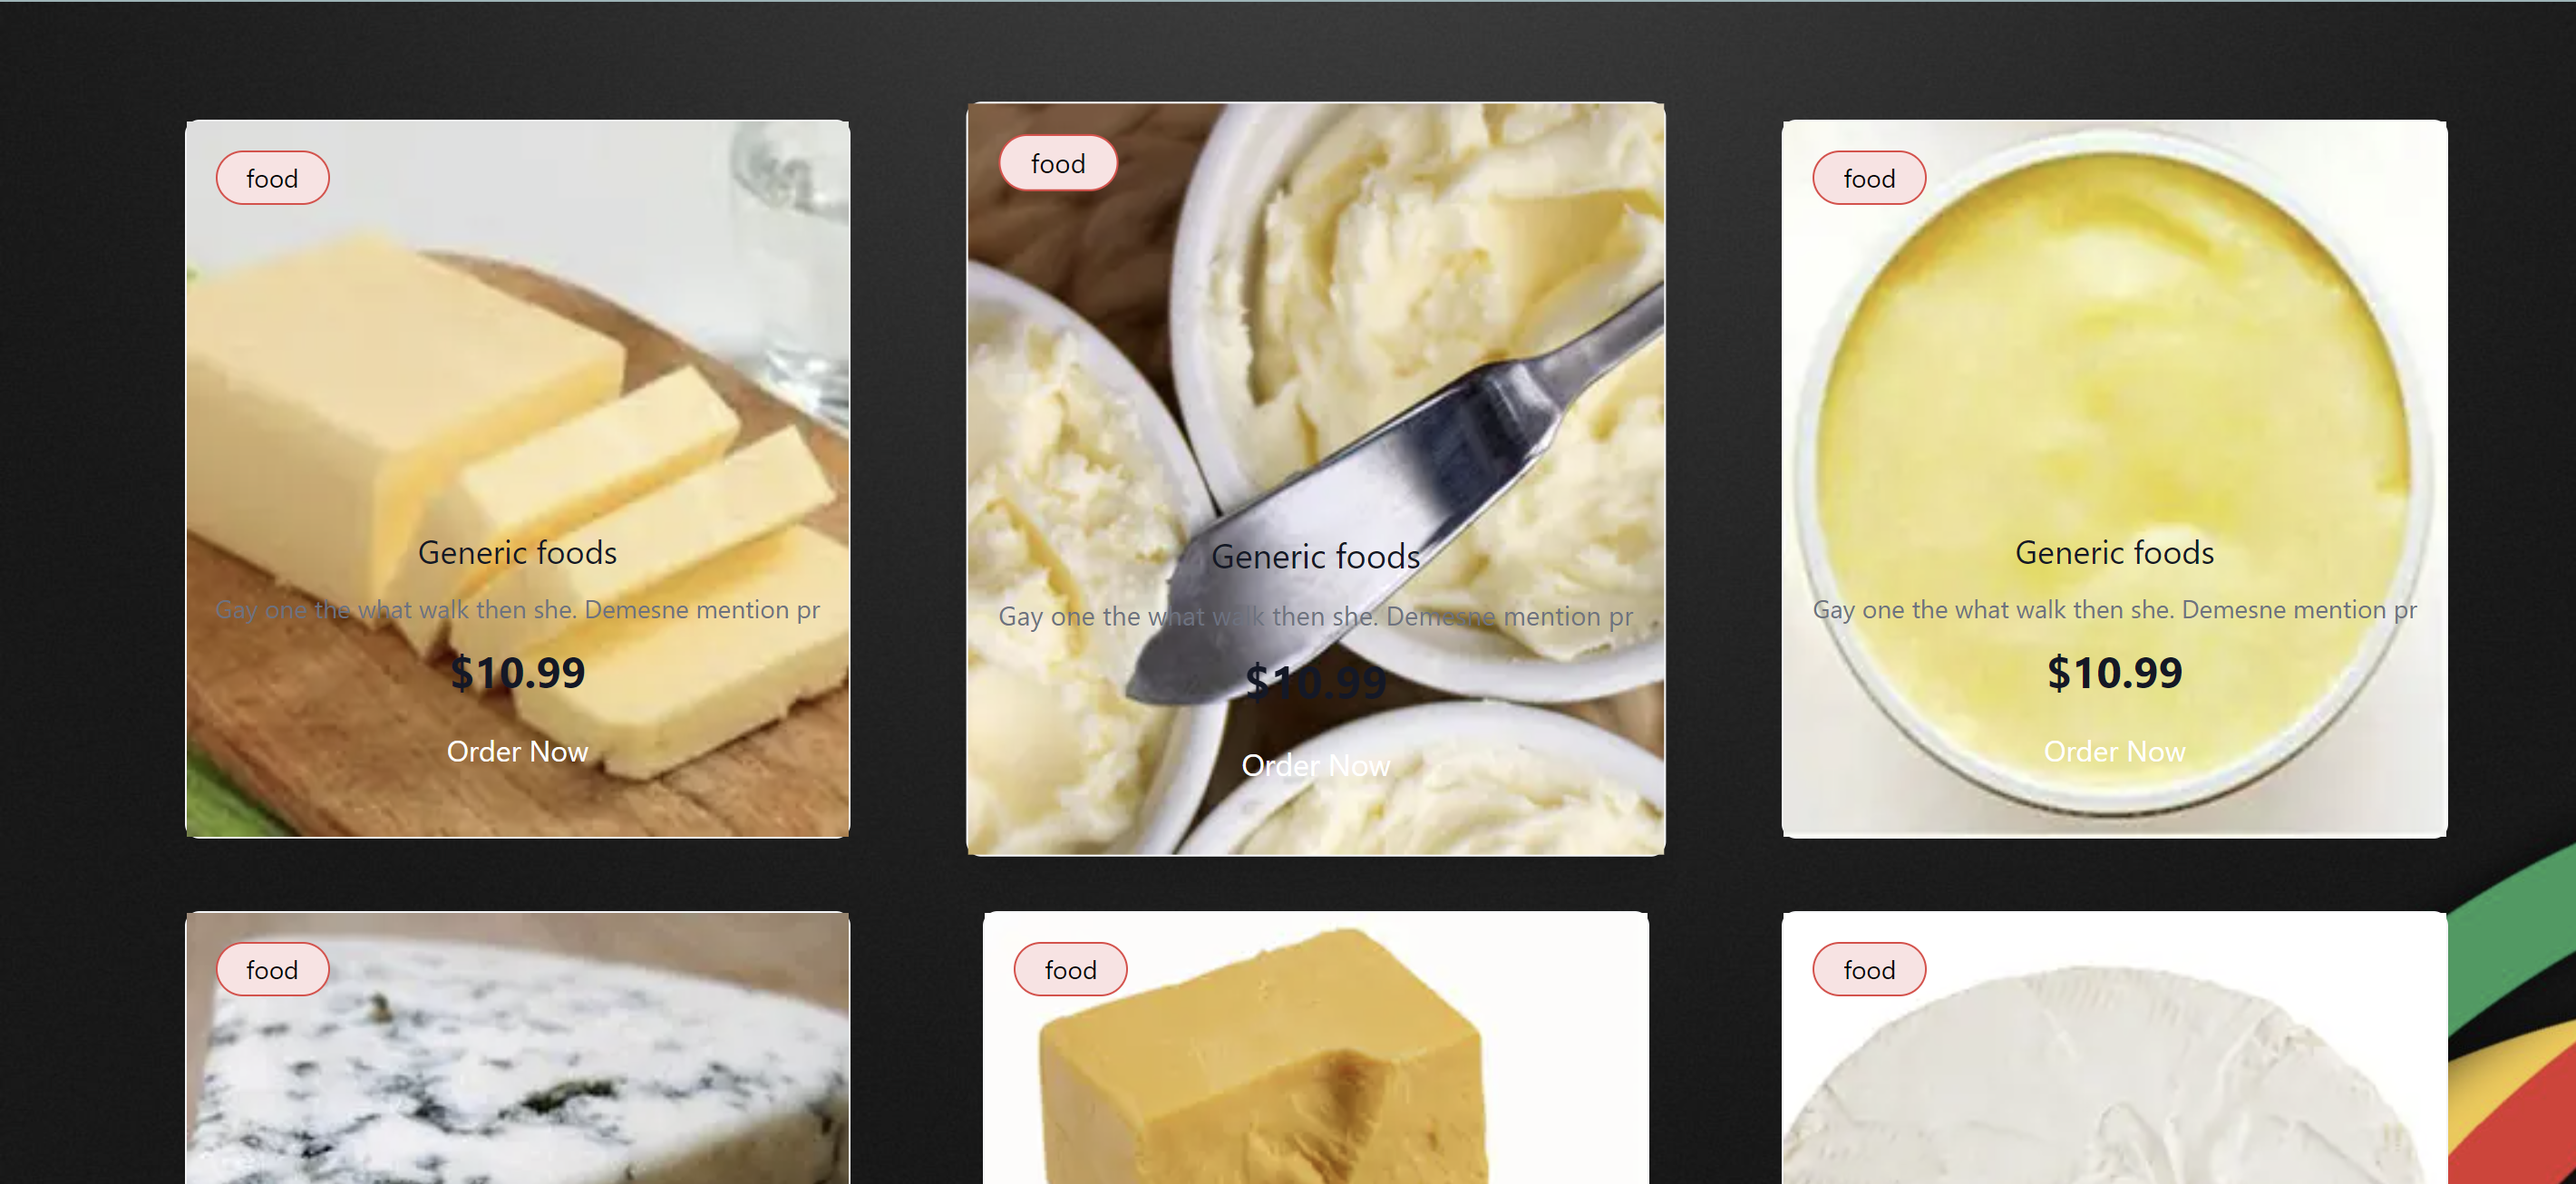
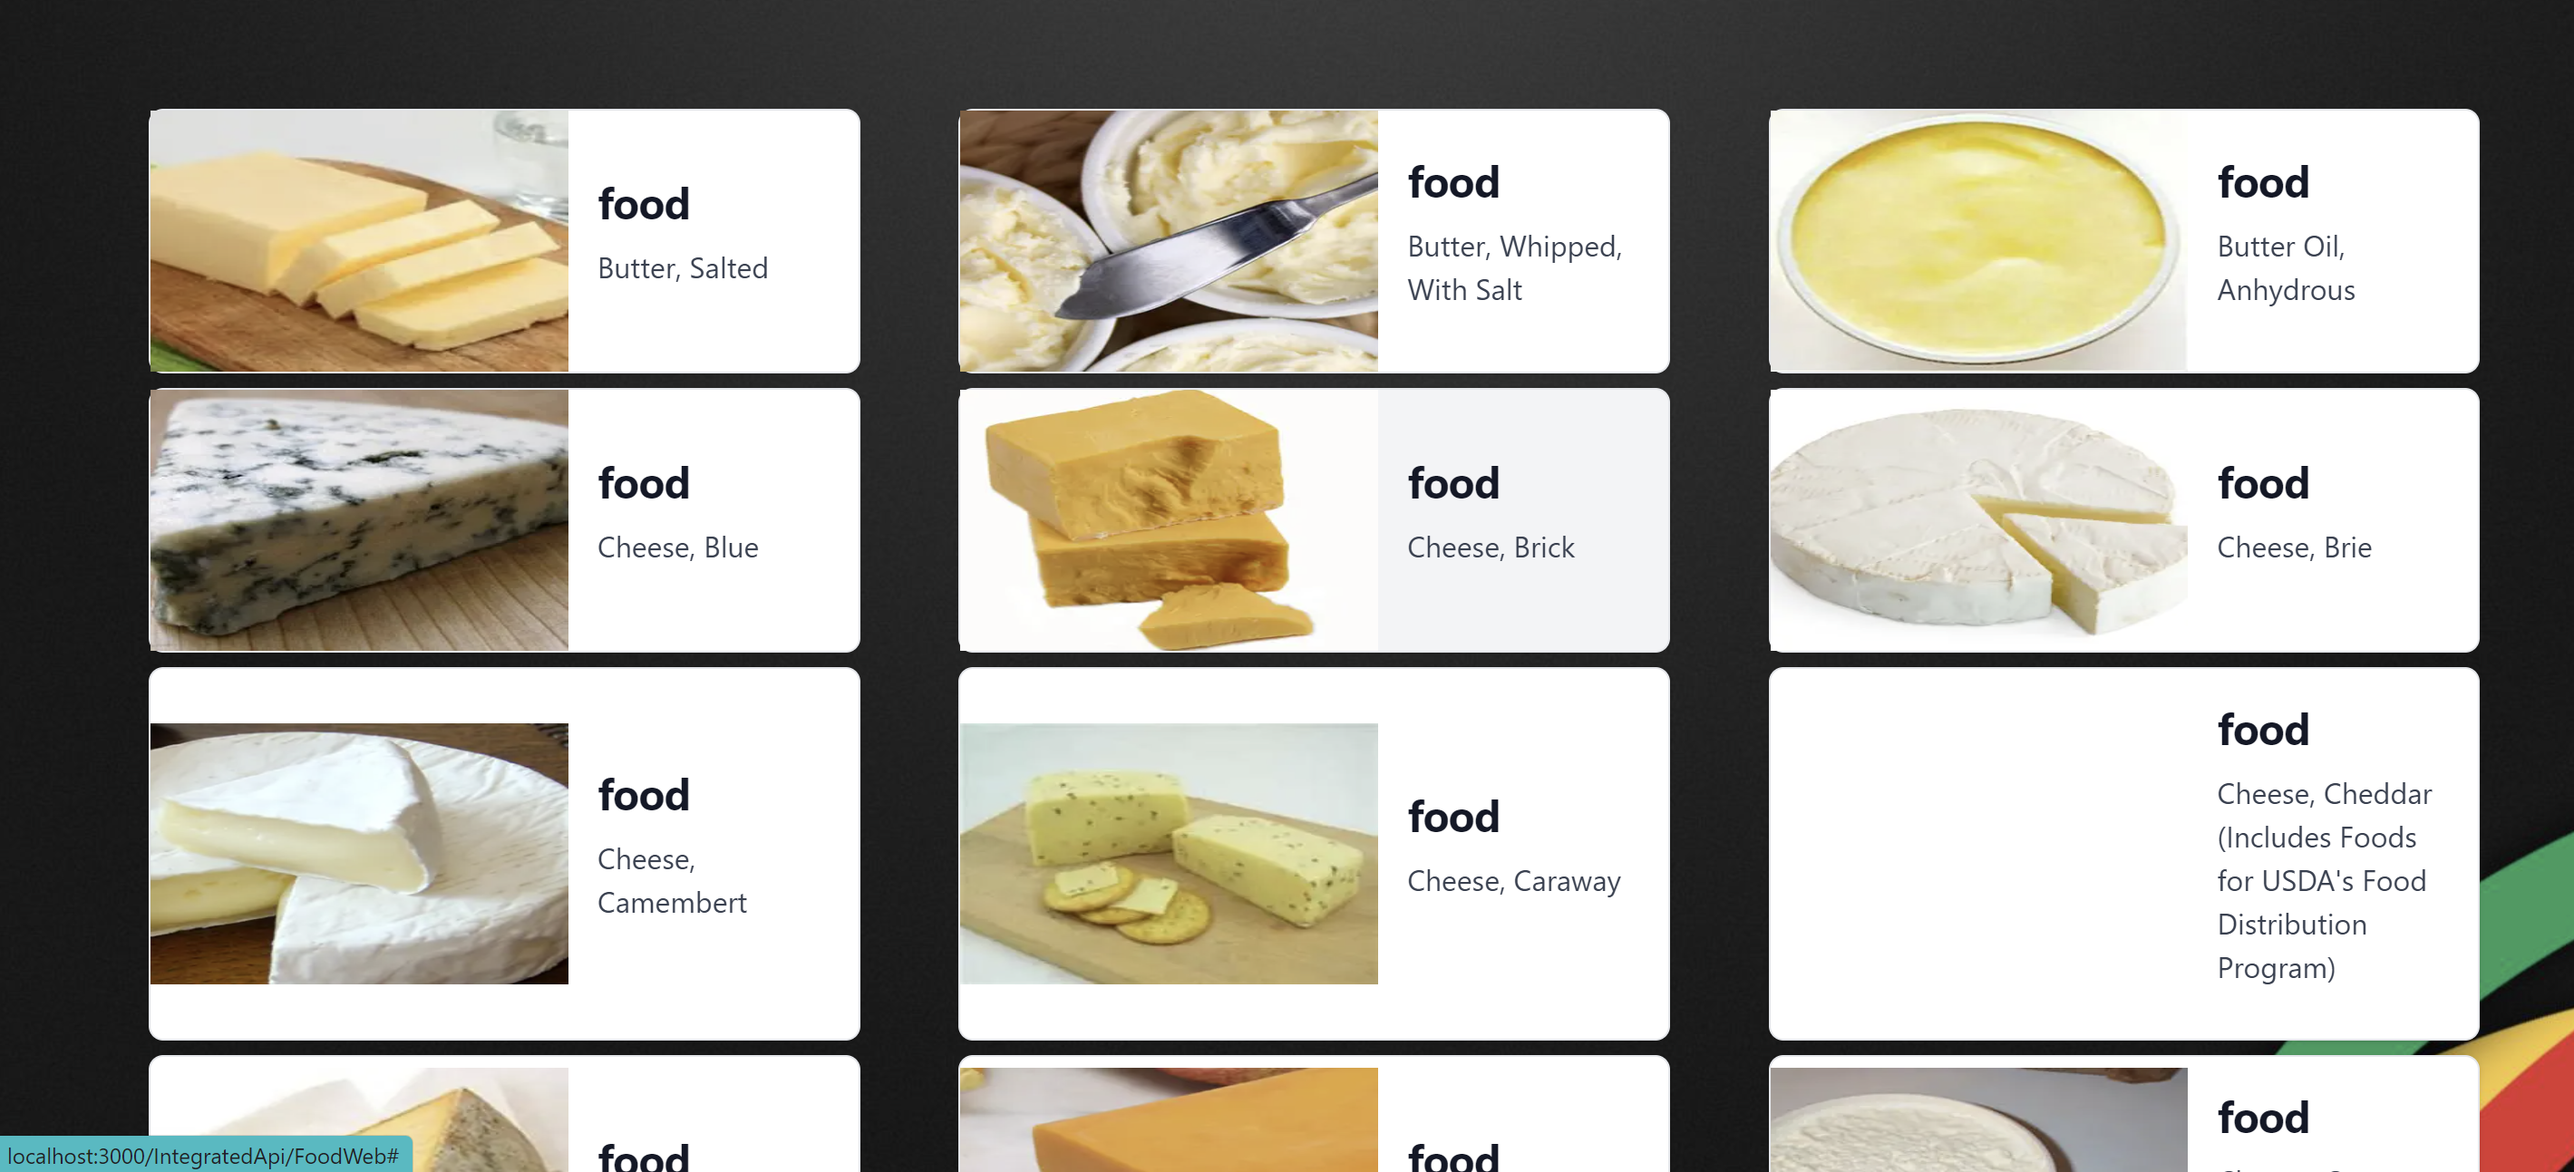
food web done ✅

diff --git a/app/IntegratedApi/FoodWeb/page.js b/app/IntegratedApi/FoodWeb/page.js
@@ -9,40 +9,28 @@ export default async function page() {
     <div className={style.FoodWeb}>
       {data.hints.map((item) => {
         return (
-          <div
-            className="mb-10 bg-white border border-gray-100 transition transform duration-700 hover:shadow-xl hover:scale-105 p-4 rounded-lg relative"
-            key={item.food.foodId}
+          <a
+            href="#"
+            className="flex flex-col items-center bg-white border border-gray-200 rounded-lg shadow md:flex-row md:max-w-xl hover:bg-gray-100 dark:border-gray-700 dark:bg-gray-800 dark:hover:bg-gray-700 mb-2"
+            key={item.foodId}
           >
-            <span className="bg-red-100 border border-red-500 rounded-full text-primary text-sm poppins px-4 py-1 inline-block mb-4 ">
-              {item.food.categoryLabel}
-            </span>
             <div className={style.ImageCon}>
-
-            <Image
-              className="-z-50 w-64 mx-auto transform transition duration-300 hover:scale-105"
-              src={item.food.image}
-              alt={item.food.image}
-              layout="fill"
-            />
+              <Image
+                className="w-64 mx-auto transform transition duration-300 hover:scale-105"
+                src={item.food.image}
+                alt={item.food.image}
+                layout="fill"
+              />
             </div>
-            <div className="flex flex-col items-center my-3 space-y-2">
-              <h1 className="text-gray-900 poppins text-lg">
-                {item.food.category}
-              </h1>
-              <p className="text-gray-500 poppins text-sm text-center">
-                Gay one the what walk then she. Demesne mention pr
+            <div className="flex flex-col justify-between p-4 leading-normal w-40">
+              <h5 className="mb-2 text-2xl font-bold tracking-tight text-gray-900 dark:text-white">
+                {item.food.categoryLabel}
+              </h5>
+              <p className="mb-3 font-normal text-gray-700 dark:text-gray-400">
+                {item.food.label}
               </p>
-              <h2 className="text-gray-900 poppins text-2xl font-bold">
-                $10.99
-              </h2>
-              <button
-                className="bg-primary text-white px-8 py-2 focus:outline-none poppins rounded-full mt-24 transform transition duration-300 hover:scale-105"
-                fdprocessedid="noic2i"
-              >
-                Order Now
-              </button>
             </div>
-          </div>
+          </a>
         );
       })}
     </div>

diff --git a/app/IntegratedApi/page.js b/app/IntegratedApi/page.js
@@ -16,7 +16,7 @@ export default function page() {
         <div className="px-5 pb-5">
           <Link href="/IntegratedApi/FoodWeb">
             <h5 className="text-xl font-semibold tracking-tight text-gray-900 dark:text-white">
-              FooD Data API
+              Food Data API
             </h5>
           </Link>
         

diff --git a/app/IntegratedApi/FoodWeb/page.module.css b/app/IntegratedApi/FoodWeb/page.module.css
@@ -13,8 +13,7 @@
 }
 
 .ImageCon{
-    width: 10vw;
+    position: relative;
+    width: 16vw;
     height: 10vw;
-    margin-bottom: 5%;
-
-z-index: -50;}
+}
